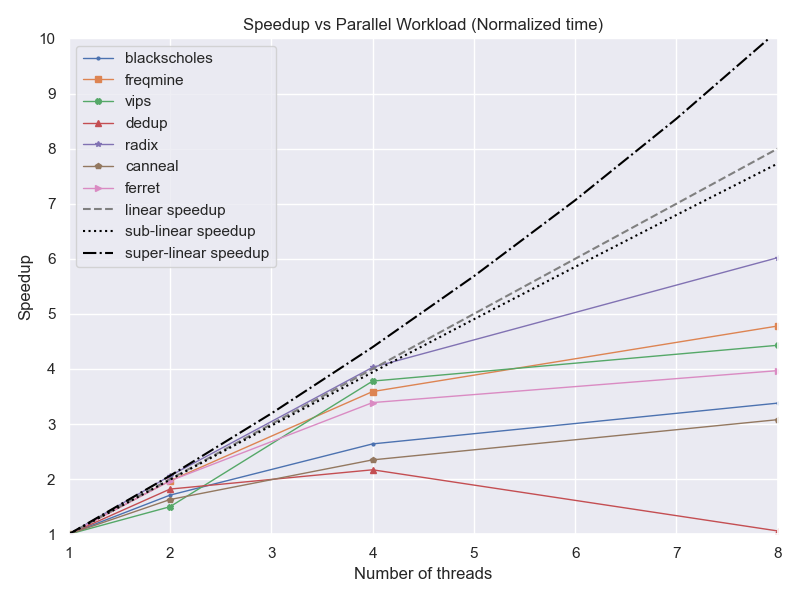
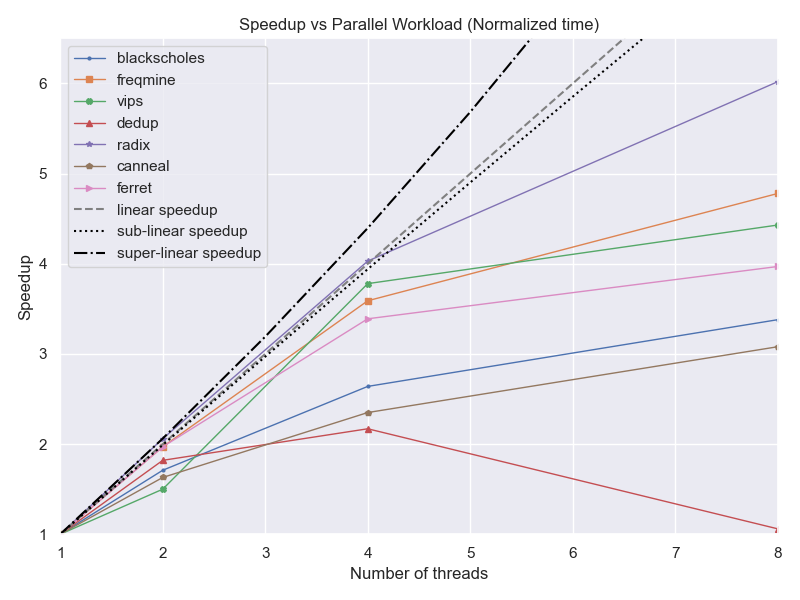
update plot 2b

diff --git a/part2/generate_figure.py b/part2/generate_figure.py
@@ -50,7 +50,7 @@ def create_figure(df_list):
     plt.xlabel('Number of threads')
     plt.ylabel('Speedup')
     plt.xlim(1,8)
-    plt.ylim(1, 10)
+    plt.ylim(1, 6.5)
     plt.title('Speedup vs Parallel Workload (Normalized time)')
     plt.legend()
     plt.tight_layout()
